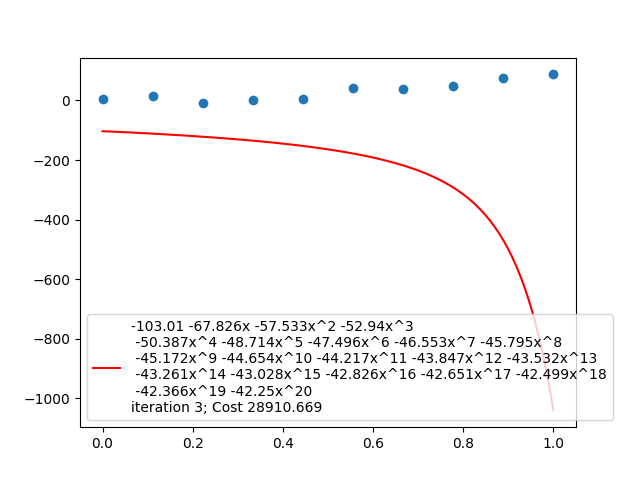
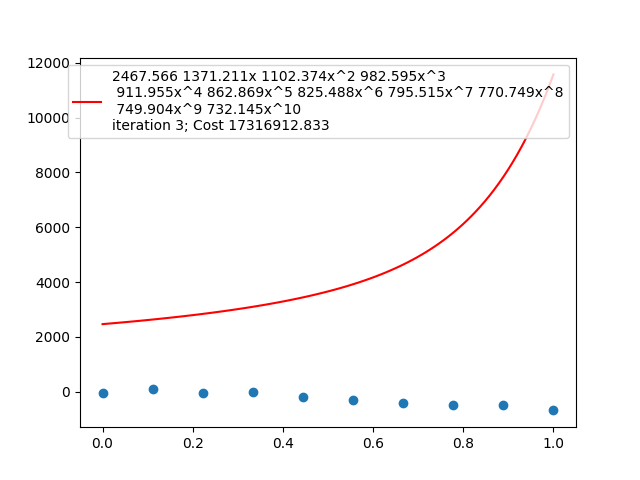
Auto reduction of Alpha

diff --git a/main.py b/main.py
@@ -3,10 +3,14 @@ import matplotlib.pyplot as plt
 import random
 
 def main():
-    degree = 20     #The degree of the curve. The highest '?' in (c1*x^?+...+cn*x^?) where c is some constant
-    X, Y = collectData(observations = 10, degree= 2, randomness=1 )
+    degree = 10     #The degree of the curve. The highest '?' in (c1*x^?+...+cn*x^?) where c is some constant
+    data_degree = 2
+    slope = np.ones(data_degree + 1)
+    for s in range(data_degree +1):
+        slope[s] = random.randint(-10, 10)
+    X, Y = collectData(observations = 10, degree = data_degree, randomness=1, slope=slope )
     X_scaled, max, min= scaleDown(X)
-    W_ = gradientDescent(X_scaled, Y, degree, alpha= 1, var_grad=True)
+    W_ = gradientDescent(X_scaled, Y, degree, alpha= 10, epsilon=0.000001, var_grad=False)
     Y_Hat = f(W_, X_scaled, degree=degree)
     
     printData(X_scaled, Y, Y_Hat)
@@ -19,18 +23,20 @@ def main():
     plt.show()
     
     
-def collectData(observations:int = 20, randomness:float = 0.1, degree:int = 1, slope:float = 1) -> tuple[np.ndarray, np.ndarray]:
+def collectData(observations:int = 20, randomness:float = 0.1, degree:int = 1, slope:np.ndarray = None) -> tuple[np.ndarray, np.ndarray]:
     """Returns two numpy arrays, the input and output.
 
     Args:
         observations (int, optional): Total number of input-output pairs. Defaults to 20.
         randomness (float, optional): The amount of randomness in the dataset. Defaults to 0.1.
         degree (int, optional): The degree of the curve, skeleton of the datapoints. Defaults to 1.
-        slope (float, optional): The slope of each power of x. Defaults to 1.
+        slope (np.ndarray, optional): Array slope of each power of x. Defaults to None.
 
     Returns:
         tuple[np.ndarray, np.ndarray]: Input array and corresponding output array
     """
+    if type(slope) == 'NoneType':
+        slope = np.ones(degree + 1)
     X = np.arange(observations)
     Y = curve(X, degree, slope)
     Y = randomize(Y, randomness)
@@ -54,13 +60,13 @@ def scaleDown(arr: np.ndarray)  -> tuple[np.ndarray, float, float]:
     max = arr.max()
     return (arr-min)/(max-min), max, min
     
-def curve(X: np.ndarray, degree:int, slope:float)  -> np.ndarray:
+def curve(X: np.ndarray, degree:int, slope:np.ndarray)  -> np.ndarray:
     """Returns numpy array of output points
 
     Args:
         X (np.ndarray): The input array
         degree (int): The degree of function
-        slope (float): The slope of variables
+        slope (np.ndarray): The slope of variables
 
     Returns:
         np.ndarray: The output array
@@ -71,7 +77,8 @@ def curve(X: np.ndarray, degree:int, slope:float)  -> np.ndarray:
         x = X[i]
         y = 0
         for j in range(degree + 1):
-            y += slope * (x**j)
+            y += slope[j] * (x**j)
+            
         Y[i] = y
     return Y
 
@@ -108,6 +115,7 @@ def gradientDescent(X_: np.ndarray, Y_: np.ndarray, degree: int = 1, alpha:float
     Returns:
         np.ndarray: Numpy array of weights
     """
+    folder = "var_grad"
     N = degree +1
     M = X_.size
     W_ = np.ones(N)
@@ -119,16 +127,19 @@ def gradientDescent(X_: np.ndarray, Y_: np.ndarray, degree: int = 1, alpha:float
     
     while True:
         cost = (sqErrorCost(W_, X_, Y_, degree))
-        if iterations%save_gap == 0:
-            plotGraph(X_, W_, Y_, degree, filename=f"var_grad/iteration {iterations}.png", caption = f"iteration {iterations}; Cost {round(cost, 3)}", display=False)
+        if iterations%save_gap == 0 and lastCost >= cost:
+            plotGraph(X_, W_, Y_, degree, filename=f"{folder}/iteration {iterations}.png", caption = f"iteration {iterations}; Cost {round(cost, 3)}", display=False)
             save_counts += 1
             if save_counts % 5 == 0:
                 save_gap *=10
-        if (iterations > 5):
+        if (iterations > 0):
             if (lastCost < cost):
                 print(f"Cost exceeded from {lastCost} to {cost}")
-                break
-            if (lastCost - cost <= epsilon):
+                alpha /= 10
+                plotGraph(X_, W_, Y_, degree, 
+                          filename=f"{folder}/Iteration {iterations} Cost increased.png", 
+                          caption=f"Cost exceeded, alpha was {alpha}\n Cost {round(cost, 3)}; Last {round(lastCost, 3)}") 
+            if (0< lastCost - cost <= epsilon):
                 print(f"Probably reached minima, cost decreased by only {lastCost - cost}")
                 break
             if var_grad:
@@ -146,7 +157,7 @@ def gradientDescent(X_: np.ndarray, Y_: np.ndarray, degree: int = 1, alpha:float
         lastCost = cost
         iterations += 1
     
-    plotGraph(X_, W_, Y_, degree, filename=f"var_grad/Last Iteration {iterations}.png", caption = f"Last Iteration {iterations}; Cost {round(cost, 3)}", display=False)
+    plotGraph(X_, W_, Y_, degree, filename=f"{folder}/Last Iteration {iterations}.png", caption = f"Last Iteration {iterations}; Cost {round(cost, 3)}", display=False)
     return W_
     
 def sqErrorCost(W_:np.ndarray, X_:np.ndarray, Y_:np.ndarray, degree:int)    -> float:
